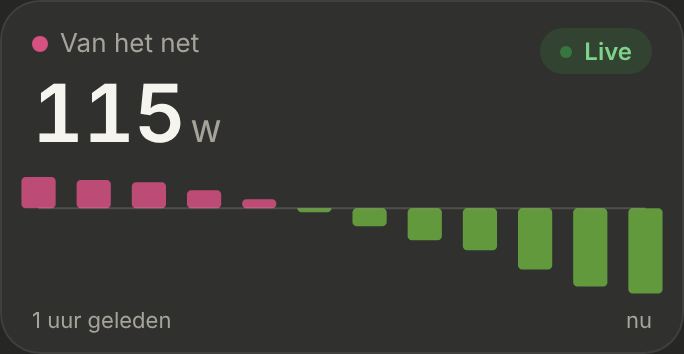
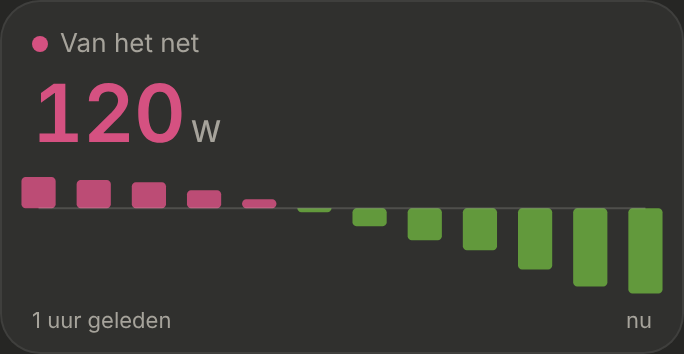
Energie: the Nu number in the colour of the bars, without the Live badge
Claude-Session: https://claude.ai/code/session_01KM6EwXvT22zbGn1J5Xot1E

Changed region(s): [[0.0307, 0.2175, 0.2763, 0.404], [0.7982, 0.1243, 0.9211, 0.1864]]

diff --git a/src/styles.css b/src/styles.css
@@ -53,7 +53,6 @@
   .attention-stack.has-motion,
   .attention-stack.has-motion .attention__item,
   .attention__less { transition: none; }
-  .energy-card__live::before { animation: none; }
 }
 
 .header { padding: 4px 4px 8px; }
@@ -2016,6 +2015,7 @@ a.pill-button { text-decoration: none; }
 
 .energy-card__value {
   margin: 2px 0 0;
+  color: var(--energy-color);
   font-size: 40px;
   font-weight: 600;
   letter-spacing: -0.01em;
@@ -2023,32 +2023,6 @@ a.pill-button { text-decoration: none; }
 }
 
 .energy-card__value small { margin-left: 3px; font-size: 15px; font-weight: 500; color: var(--text-muted); }
-
-/* Option B: "Live" as a badge in the card's top right, with a pulsing dot. */
-.energy-card__top { display: flex; justify-content: space-between; align-items: flex-start; }
-
-.energy-card__live {
-  display: inline-flex;
-  align-items: center;
-  gap: 6px;
-  padding: 4px 10px;
-  border-radius: 999px;
-  background: rgba(63, 185, 80, 0.14);
-  color: #7fd18b;
-  font-size: 12px;
-  font-weight: 600;
-}
-
-.energy-card__live::before {
-  content: '';
-  width: 6px;
-  height: 6px;
-  border-radius: 50%;
-  background: #3fb950;
-  animation: energy-live-pulse 1.6s ease-in-out infinite;
-}
-
-@keyframes energy-live-pulse { 50% { opacity: 0.35; } }
 
 /* The last hour, 12 bars of 5 minutes, across the full width of the card. */
 .energy-card__bars { margin: 6px -16px 0; }

diff --git a/src/components/energy/EnergyNow.tsx b/src/components/energy/EnergyNow.tsx
@@ -23,7 +23,8 @@ const BARS_HEIGHT = 64;
 /**
  * "Nu" on the Energie page (docs/design/energie-nu, option B): what goes
  * through the P1 meter right now, as a number that counts to each new value,
- * with the last hour as bars of 5 minutes below it.
+ * in the colour of the bars (pink taking, green feeding back), with the last
+ * hour as bars of 5 minutes below it.
  */
 export function EnergyNow({ hass }: Props) {
   const currentWatts = numberState(hass.states, ENERGY_NOW.gridPower);
@@ -44,16 +45,11 @@ function GridPowerCard({ hass, currentWatts }: Props & { currentWatts: number })
 
   return (
     <div className="energy-card" style={{ '--energy-color': colorFor(shownWatts) } as CSSProperties}>
-      <div className="energy-card__top">
-        <div>
-          <p className="energy-card__label">{isFeedingBack ? 'Terug naar het net' : 'Van het net'}</p>
-          <p className="energy-card__value">
-            {readableWatts(shownWatts)}
-            <small>W</small>
-          </p>
-        </div>
-        <span className="energy-card__live">Live</span>
-      </div>
+      <p className="energy-card__label">{isFeedingBack ? 'Terug naar het net' : 'Van het net'}</p>
+      <p className="energy-card__value">
+        {readableWatts(shownWatts)}
+        <small>W</small>
+      </p>
       <LastHourBars hass={hass} />
     </div>
   );

diff --git a/docs/design/energie-nu/README.md b/docs/design/energie-nu/README.md
@@ -18,8 +18,8 @@ Only the P1 meter: `sensor.p1_meter_power` (`ENERGY_NOW.gridPower`), positive wh
 
 - **"NU"** as the section title.
 - **The label:** "Van het net" with a pink dot (`#d55181`), or "Terug naar het net" with a green dot (`#6bab3e`), following the sign.
-- **The big number** (40px, fixed-width digits), without a minus sign: it **counts** to each new value in 0.4 s. It follows every state change (about every 3 s).
-- **"Live"** as a green badge in the top right, with a slowly pulsing dot.
+- **The big number** (40px, fixed-width digits), without a minus sign, **in the colour of the bars**: pink while taking, green while feeding back. It **counts** to each new value in 0.4 s and follows every state change (about every 3 s).
+- *No "Live" badge any more* (removed on 4 November at the owner's request).
 
 ## The bars
 
@@ -33,7 +33,7 @@ Only the P1 meter: `sensor.p1_meter_power` (`ENERGY_NOW.gridPower`), positive wh
 
 ## Reduce motion
 
-No counting, and the "Live" dot doesn't pulse.
+No counting.
 
 ## Next steps
 
